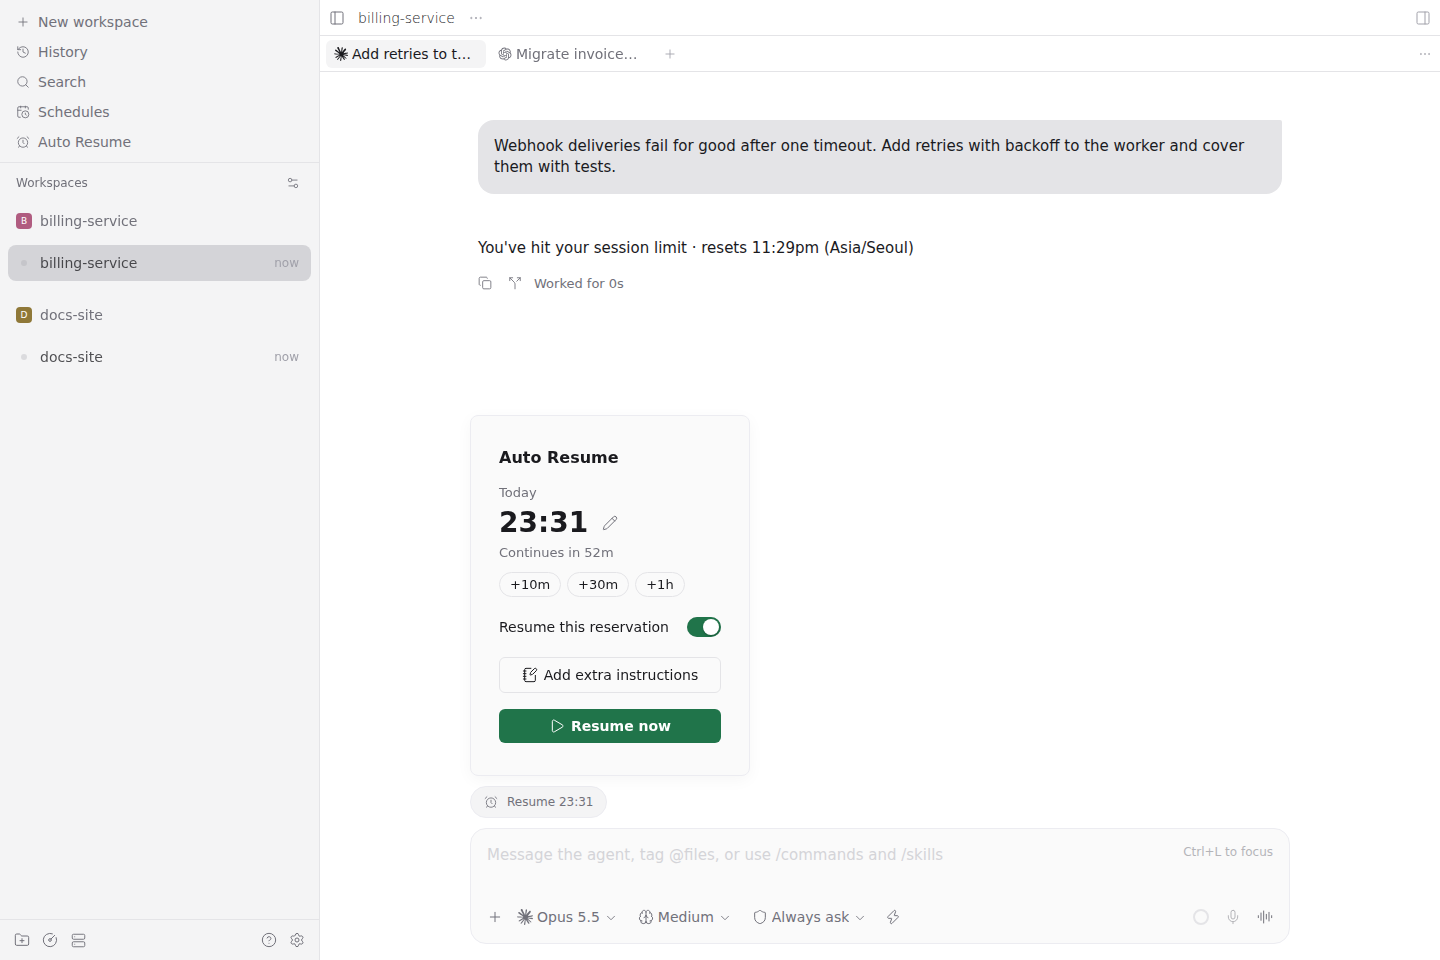
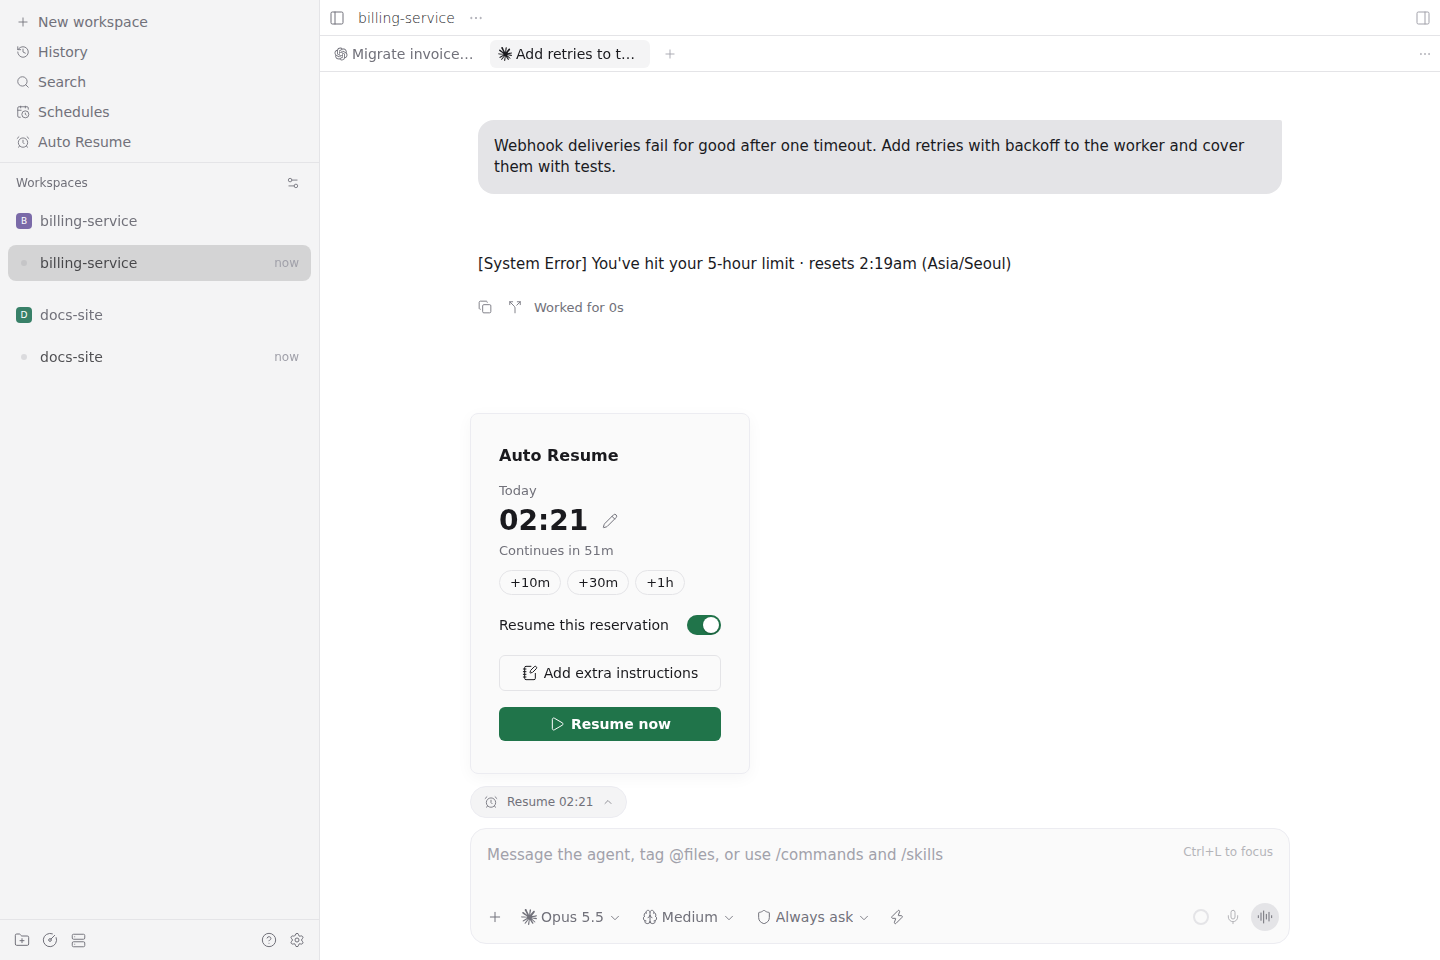
docs: recapture the screenshots on Paseo 0.16.0 and v1.4.0
The list now shows Paseo's provider names, the next check in the header
and a background OpenCode agent; the settings show the background agents
switch and OpenCode. Provenance is in assets/README.md.

diff --git a/assets/README.md b/assets/README.md
@@ -1,11 +1,11 @@
 # Screenshot provenance
 
-Captured on October 27, 2026 from the real Paseo 0.13.2 bundled web app and the Usage Auto Resume plugin at v1.3.0, using Chromium through Playwright at a 1440 × 960 desktop viewport. They come from an isolated daemon with two demo workspaces, `billing-service` and `docs-site`.
+Captured on November 17, 2026 from the real Paseo 0.16.0 bundled web app and the Usage Auto Resume plugin at v1.4.0, using Chromium through Playwright at a 1440 × 960 desktop viewport. They come from an isolated daemon with two demo workspaces, `billing-service` and `docs-site`.
 
-- `auto-resume.png` shows four reservations and the expanded recent activity. The states shown are scheduled, waiting for usage verification, with extra instructions, and skipped, grouped by day.
+- `auto-resume.png` shows four reservations and the expanded recent activity. The states shown are scheduled, waiting for usage verification, with extra instructions, and skipped for a background OpenCode agent, grouped by day.
   - The first reservation was made by the plugin itself when the agent's Claude Code stopped at its limit.
   - The other three and the recent activity entries were seeded as demo data.
 - `composer.png` shows that first conversation with its **Auto Resume** panel open. The limit notice is the one Claude Code itself wrote.
-- `settings.png` shows the plugin settings, scrolled to show both the providers and the continue prompt. The providers `claude`, `claude-team`, `codex` and `antigravity` and their `example.com` accounts are demo configuration.
+- `settings.png` shows the plugin settings, scrolled to show the background agents switch and the providers. The providers `claude`, `claude-team`, `codex`, `antigravity` and `opencode` and their `example.com` accounts are demo configuration.
 
 The only model request was the demo conversation's turn. It went to a local stand-in for the Anthropic API, which answered with a usage-limit error. No real account was used, and the CLIs' other outbound connections were refused. The plugin's account and usage check was replaced by a fixed "available" answer. No production conversation content, account emails or credentials are included. The screenshots are direct browser captures, and the displayed interface was not retouched. The browser reported no errors.
